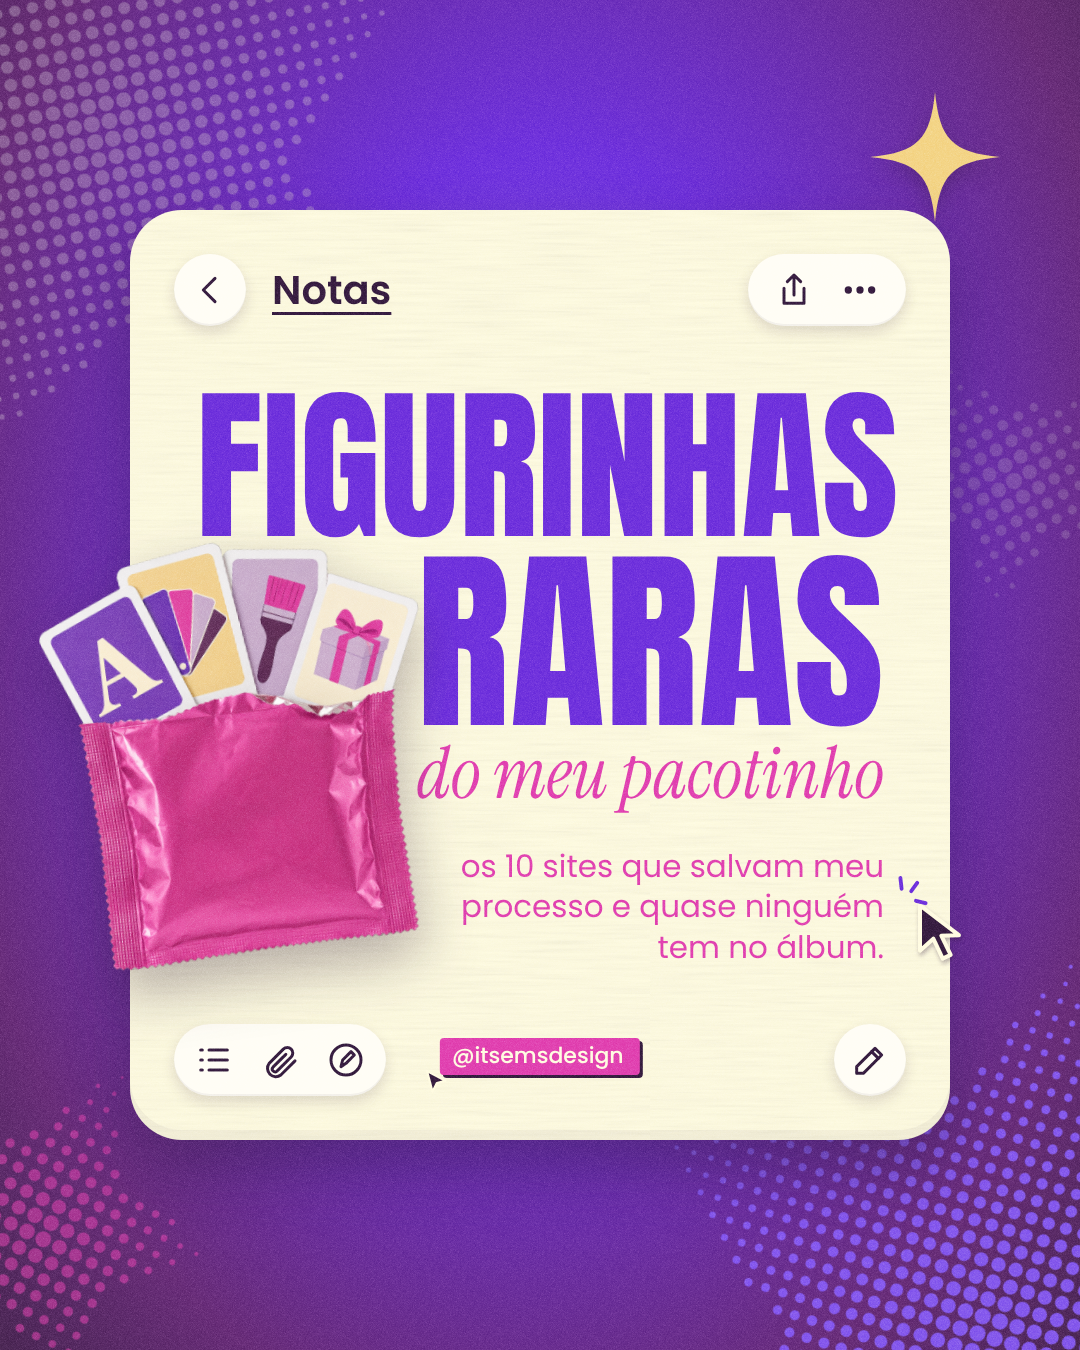
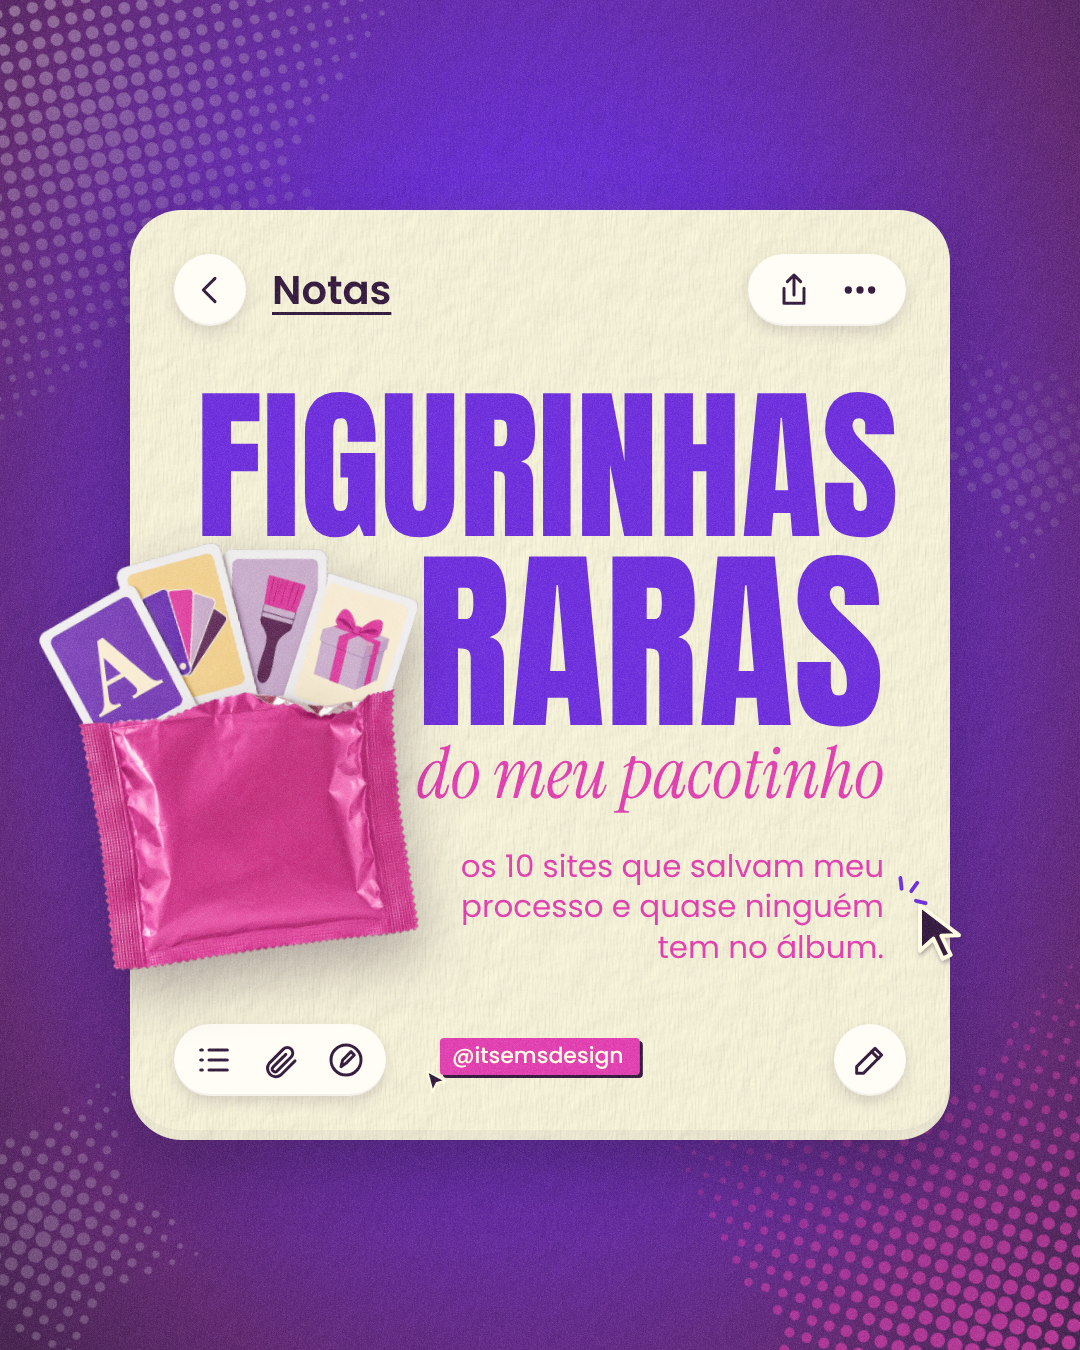
EMS figurinhas raras v4: capa sem brilho amarelo, estrelas com pesos diferentes e mais textura
Claude-Session: https://claude.ai/code/session_01CmCiKB9wFc4qQovptupnZT

diff --git a/Emi/ems-album-figurinhas/projeto/carrossel.html b/Emi/ems-album-figurinhas/projeto/carrossel.html
@@ -85,13 +85,13 @@ const brilho4 = (x, y, tam, cor, r = 0) => `<svg class="abs" style="left:${x}px;
   const botao = (conteudo, extra = '') => `<div style="display:flex;align-items:center;gap:26px;padding:16px 20px;border-radius:999px;background:#fffdf4;box-shadow:0 6px 14px rgba(42,20,51,.16), inset 0 -2px 0 rgba(42,20,51,.06);${extra}">${conteudo}</div>`;
   const CX = 130, CY = 210;           // canto do cartão
   lamina(0, `
-    <img class="abs" src="${estrelaReticula(860, css('lavanda'))}" style="left:-330px;top:-300px;width:860px;opacity:.38;transform:rotate(-11deg)">
-    <img class="abs" src="${estrelaReticula(940, css('violeta-2'))}" style="left:520px;top:860px;width:940px;opacity:.95;transform:rotate(17deg)">
-    <img class="abs" src="${estrelaReticula(400, css('pink'))}" style="left:-160px;top:1030px;width:400px;opacity:.55;transform:rotate(26deg)">
-    <img class="abs" src="${estrelaReticula(300, css('lavanda'))}" style="left:860px;top:330px;width:300px;opacity:.22;transform:rotate(-30deg)">
-    ${brilho4(870, 92, 130, css('manteiga'), 0)}
+    <img class="abs" src="${estrelaReticula(860, css('lavanda'))}" style="left:-330px;top:-300px;width:860px;opacity:.62;transform:rotate(-11deg);-webkit-mask-image:linear-gradient(150deg,#000 25%,transparent 80%);mask-image:linear-gradient(150deg,#000 25%,transparent 80%)">
+    <img class="abs" src="${estrelaReticula(940, css('pink'))}" style="left:520px;top:860px;width:940px;opacity:.9;transform:rotate(17deg);-webkit-mask-image:linear-gradient(-40deg,#000 35%,transparent 90%);mask-image:linear-gradient(-40deg,#000 35%,transparent 90%)">
+    <img class="abs" src="${estrelaReticula(400, css('lavanda'))}" style="left:-160px;top:1030px;width:400px;opacity:.28;transform:rotate(26deg)">
+    <img class="abs" src="${estrelaReticula(300, css('ivory'))}" style="left:880px;top:300px;width:300px;opacity:.16;transform:rotate(-30deg);-webkit-mask-image:linear-gradient(90deg,#000,transparent);mask-image:linear-gradient(90deg,#000,transparent)">
     <div class="abs" style="left:${CX}px;top:${CY}px;width:820px;height:930px;border-radius:52px;background:var(--ivory);box-shadow:0 30px 60px rgba(42,20,51,.45), inset 0 -10px 0 rgba(42,20,51,.05)">
-      <div class="abs fibra" style="border-radius:52px;opacity:.14"></div>
+      <div class="abs" style="inset:0;border-radius:52px;background-image:var(--tx-relevo);background-size:620px;mix-blend-mode:multiply;opacity:.38"></div>
+      <div class="abs" style="inset:0;border-radius:52px;background-image:var(--tx-fibras);background-size:460px;mix-blend-mode:multiply;opacity:.3"></div>
       <div class="abs" style="left:44px;right:44px;top:44px;display:flex;align-items:center;gap:26px">
         ${botao(ic('<path d="M15 5l-7 7 7 7"/>'), 'padding:16px;')}
         <span style="font-family:var(--sans);font-weight:600;font-size:40px;color:var(--tinta);text-decoration:underline;text-underline-offset:8px;text-decoration-thickness:3px">Notas</span>
@@ -110,7 +110,9 @@ const brilho4 = (x, y, tam, cor, r = 0) => `<svg class="abs" style="left:${x}px;
     <!-- o clique é no cartão: como se abrisse a nota -->
     <svg class="abs" style="left:912px;top:${CY + 690}px;width:64px;filter:drop-shadow(1px 3px 2px rgba(42,20,51,.35))" viewBox="0 0 24 24"><path d="M3 2 L3 19 L8 14.5 L11.5 22 L14.5 20.6 L11 13.4 L17.6 13.2 Z" fill="${css('tinta')}" stroke="${css('ivory')}" stroke-width="1.5" stroke-linejoin="round"/></svg>
     <svg class="abs" style="left:880px;top:${CY + 662}px;width:48px" viewBox="0 0 40 40" fill="none" stroke="${css('violeta')}" stroke-width="3.2" stroke-linecap="round"><path d="M30 24 L38 26"/><path d="M26 16 L31 9"/><path d="M18 14 L17 5"/></svg>
-  `, `<div class="abs" style="inset:0;background:radial-gradient(ellipse at 50% 42%, var(--violeta-2) 0%, var(--violeta) 38%, var(--plum) 80%, var(--ameixa) 100%)"></div>`, 'grao-forte');
+  `, `<div class="abs" style="inset:0;background:radial-gradient(ellipse at 50% 42%, var(--violeta-2) 0%, var(--violeta) 38%, var(--plum) 80%, var(--ameixa) 100%)"></div>
+      <div class="abs" style="inset:0;background-image:var(--tx-relevo);background-size:620px;mix-blend-mode:multiply;opacity:.5"></div>
+      <div class="abs" style="inset:0;background-image:var(--tx-fibras);background-size:460px;mix-blend-mode:multiply;opacity:.35"></div>`, 'grao-forte');
 })();
 
 /* ================= 2 · pesquisa — diagramação da ref 8 (agenda) ================= */
